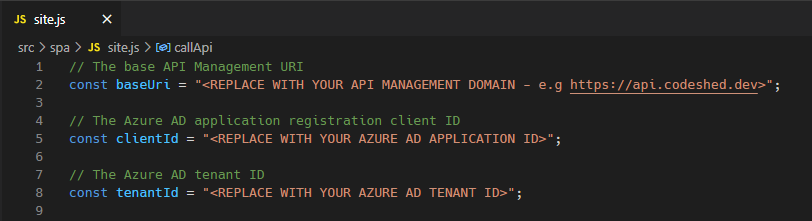
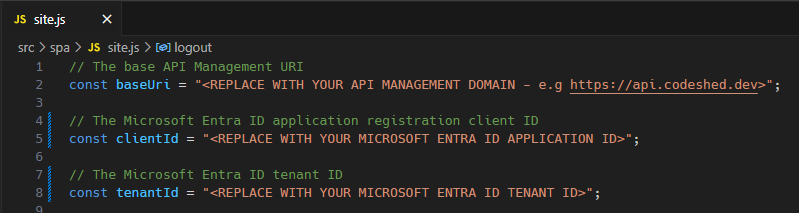
Updated references to Microsoft Entra ID (#5)

diff --git a/src/spa/site.js b/src/spa/site.js
@@ -1,11 +1,11 @@
 // The base API Management URI
 const baseUri = "<REPLACE WITH YOUR API MANAGEMENT DOMAIN - e.g https://api.codeshed.dev>";
 
-// The Azure AD application registration client ID
-const clientId = "<REPLACE WITH YOUR AZURE AD APPLICATION ID>";
+// The Microsoft Entra ID application registration client ID
+const clientId = "<REPLACE WITH YOUR MICROSOFT ENTRA ID APPLICATION ID>";
 
-// The Azure AD tenant ID
-const tenantId = "<REPLACE WITH YOUR AZURE AD TENANT ID>";
+// The Microsoft Entra ID tenant ID
+const tenantId = "<REPLACE WITH YOUR MICROSOFT ENTRA ID TENANT ID>";
 
 // The scope for the access token request to call the Microsoft Graph API
 // If a refresh token is also required for the application, add "offline_access" to the scope
@@ -18,9 +18,9 @@ const login = () => {
         `https://login.microsoftonline.com/${tenantId}/oauth2/v2.0/authorize?response_type=code&redirect_uri=${baseUri}/auth/callback&client_id=${clientId}&scope=${scope}`;
 };
 
-// Logs the user out of the application by redirecting to the logout endpoint of Azure AD which will in turn call the logout endpoint of the application to remove the cookie
-// This allows the user to be logged out of Azure AD and the single-page application itself by deleting the cookie
-// If you do not want to log the user out of Azure AD, you can remove the redirect to the logout endpoint of Azure AD and just call the logout endpoint of the application
+// Logs the user out of the application by redirecting to the logout endpoint of Microsoft Entra ID which will in turn call the logout endpoint of the application to remove the cookie
+// This allows the user to be logged out of Microsoft Entra ID and the single-page application itself by deleting the cookie
+// If you do not want to log the user out of Microsoft Entra ID, you can remove the redirect to the logout endpoint of Microsoft Entra ID and just call the logout endpoint of the application
 const logout = () => {
     window.location.href = `https://login.microsoftonline.com/${tenantId}/oauth2/v2.0/logout?post_logout_redirect_uri=${baseUri}/auth/logout`;
 };

diff --git a/docs/deployment-guide.md b/docs/deployment-guide.md
@@ -10,11 +10,11 @@ To learn more about using custom domains on Azure resources, see [Manage custom 
 
 ## Prerequisites
 
-This example requires the following to be created in your **Azure AD tenant**.
+This example requires the following to be created in your **Microsoft Entra ID tenant**.
 
-- **Azure Active Directory Application Registration**
+- **Microsoft Entra ID Application Registration**
   - A client application registration is used to generate the client id and client secret required for the API Management gateway to acquire an access token.
-  - **Quickstart:** [Register an application with the Microsoft identity platform](https://learn.microsoft.com/azure/active-directory/develop/quickstart-register-app).
+  - **Quickstart:** [Register an application with the Microsoft identity platform](https://learn.microsoft.com/entra/identity-platform/quickstart-register-app).
 
 This example requires the following resources to be created in your **Azure subscription**, within a single resource group.
 
@@ -37,30 +37,30 @@ Once registered, the application registration requires the following properties 
 - API permissions
 - Front-channel logout URL
 
-When creating the application registration, the sign in audience chosen will determine the Azure Active Directory endpoints required for authorization and token acquisition. This example project uses a single tenant application registration, which only allows users from a single directory to access it. If a multi-tenant application is used, then the tenant id should be replaced with the appropriate alternative common setting.
+When creating the application registration, the sign in audience chosen will determine the Microsoft Entra ID endpoints required for authorization and token acquisition. This example project uses a single tenant application registration, which only allows users from a single directory to access it. If a multi-tenant application is used, then the tenant id should be replaced with the appropriate alternative common setting.
 
 Even though this example is a single-page application, due to the backend for frontend pattern, the OAuth2 application is considered a confidential client as token acquisition is handled by the API Management gateway, which can keep the client secret value secure either as a secret named value, or by linking it to a secret in a Key Vault.
 
 The redirect URI should be configured as a **Web** redirect and pointed to the domain of the API Management gateway and the API callback operation, for example: `https://<APIM DOMAIN>/auth/callback`.
 
-To enable the single-page application to log out of the API Management gateway, the front channel logout URL should be configured to the domain of the Azure API Management gateway logout operation, for example: `https://<APIM DOMAIN>/auth/logout`. This will ensure that the cookie is removed from the browser when the user logs out of Azure Active Directory.
+To enable the single-page application to log out of the API Management gateway, the front channel logout URL should be configured to the domain of the Azure API Management gateway logout operation, for example: `https://<APIM DOMAIN>/auth/logout`. This will ensure that the cookie is removed from the browser when the user logs out of Microsoft Entra ID.
 
-![A screenshot of the Azure AD app registration redirects.](images/app-reg-redirect.png)
+![A screenshot of the Microsoft Entra ID app registration redirects.](images/app-reg-redirect.png)
 
 As this example uses Microsoft Graph API as the proxied API to call, we need to add the permission `User.Read` to the application. Depending upon how you create the application registration this will probably be added for you by default.
 
-![A screenshot of the Azure AD app registration API permissions.](images/app-reg-permissions.png)
+![A screenshot of the Microsoft Entra ID app registration API permissions.](images/app-reg-permissions.png)
 
 Finally, a client secret is required to be generated for the API Management gateway to enable the authorization code to be exchanged for an access token. This secret is not required in the single-page application, but will be stored as a named value in the API Management gateway.
 
-![A screenshot of the Azure AD app registration client secrets configuration.](images/app-reg-secret.png)
+![A screenshot of the Microsoft Entra ID app registration client secrets configuration.](images/app-reg-secret.png)
 
 ## API Management configuration
 
 Once the API Management gateway has been created several parameters need to be registered under [Named Values](https://learn.microsoft.com/azure/api-management/api-management-howto-properties) to be referenced by the policies. Theses values are:
 
 - `tenant-id`
-  - The Azure Active Directory tenant ID.
+  - The Microsoft Entra ID tenant ID.
 - `client-id`
   - The application registration client ID.
 - `client-secret`
@@ -94,7 +94,7 @@ After the API definition has been imported, you should disable the requirement f
 
 ![A screenshot of the API configuration for the auth endpoint with Subscription required unchecked.](images/import-auth-subscription.png)
 
-Once the API definitions have been imported, the API Management policies can be edited. Each of the API definitions has it's own policy. The `callback` policy acts as the redirect for the Azure Active Directory application, and receives the authorization code following user authentication. This policy then exchanges the code for an access token before encrypting it into a cookie and returning it to the single-page application. The `logout` policy simply removes the cookie from the browser.
+Once the API definitions have been imported, the API Management policies can be edited. Each of the API definitions has it's own policy. The `callback` policy acts as the redirect for the Microsoft Entra ID application, and receives the authorization code following user authentication. This policy then exchanges the code for an access token before encrypting it into a cookie and returning it to the single-page application. The `logout` policy simply removes the cookie from the browser.
 
 To edit a policy, first select the API method and then click on the **Policies** button in the portal.
 
@@ -133,7 +133,7 @@ The `site.js` file contains three values that need to be updated to match your c
 - `clientId`
   - The application registration client id.
 - `tenantId`
-  - The Azure Active Directory tenant id.
+  - The Microsoft Entra ID tenant id.
 
 ![A screenshot of the site.js file's configuration lines.](images/site-js-settings.png)
 
@@ -143,7 +143,7 @@ Once the static web app has been deployed, the single-page application can be ac
 
 ![A screenshot of the running application, sitting on the main view.](images/spa-signin.png)
 
-Clicking the **Sign In** button will redirect you to the Azure Active Directory login page. Once you have authenticated, you will be redirected back to the single-page application and a cookie will be set containing the access token.
+Clicking the **Sign In** button will redirect you to the Microsoft Entra ID login page. Once you have authenticated, you will be redirected back to the single-page application and a cookie will be set containing the access token.
 
 ![A screenshot of the browser dev tools showing the HttpOnly, Secure cookie named "token."](images/spa-cookie-token.png)
 
@@ -151,8 +151,8 @@ Clicking the **Call API** button will make a request to the Microsoft Graph API 
 
 ![A screenshot of the running application, showing the output of a Graph API call.](images/spa-api-call.png)
 
-Clicking the **Sign Out** button will sign the user out from Azure Active Directory and remove the cookie from the browser.
+Clicking the **Sign Out** button will sign the user out from Microsoft Entra ID and remove the cookie from the browser.
 
 ## Cleaning up
 
-To remove the resources created in this tutorial, delete the resource group created in the [Prerequisites](#prerequisites) section, and delete the application registration created the Azure Active Directory.
+To remove the resources created in this tutorial, delete the resource group created in the [Prerequisites](#prerequisites) section, and delete the application registration created the Microsoft Entra ID.

diff --git a/README.md b/README.md
@@ -4,14 +4,14 @@ This project is an example of how you can use Azure API Management to implement 
 
 This architecture uses [API Management](https://azure.microsoft.com/products/api-management) to:
 
-- Implement a [Backends for Frontends](/azure/architecture/patterns/backends-for-frontends) pattern that gets an OAuth2 access token from Azure Active Directory (Azure AD).
+- Implement a [Backends for Frontends](/azure/architecture/patterns/backends-for-frontends) pattern that gets an OAuth2 access token from Microsoft Entra ID.
 - Use Advanced Encryption Standard [AES](https://en.wikipedia.org/wiki/Advanced_Encryption_Standard) to encrypt and decrypt the access token.
 - Store the token in an `HttpOnly` cookie.
 - Proxy all API calls that require authorization.
 
 Because the backend handles token acquisition, no other code or library, like [MSAL.js](https://github.com/AzureAD/microsoft-authentication-library-for-js), is required in the single-page application. When you use this design, no tokens are stored in the browser session or local storage. Encrypting and storing the access token in an `HttpOnly` cookie helps to protect it from [XSS](https://owasp.org/www-community/attacks/xss/) attacks. Scoping it to the API domain and setting `SameSite` to `Strict` ensures that the cookie is automatically sent with all proxied API first-party requests.
 
-This example uses [Microsoft Graph API](https://learn.microsoft.com/graph/api/overview?view=graph-rest-1.0) as an example backend API, but the same principles apply to any backend API you want to call. To obtain an access token with the required scopes, the correct API permissions need to be added to the application registration in Azure Active Directory.
+This example uses [Microsoft Graph API](https://learn.microsoft.com/graph/api/overview?view=graph-rest-1.0) as an example backend API, but the same principles apply to any backend API you want to call. To obtain an access token with the required scopes, the correct API permissions need to be added to the application registration in Microsoft Entra ID.
 
 ## Deploy this example
 
@@ -24,10 +24,10 @@ For information on how to deploy and configure the solution, please consult the 
 The pattern works as follows:
 
 1. A user selects **Sign in** in the single-page application.
-2. The single-page application invokes Authorization Code flow via a redirect to the Azure AD authorization endpoint.
+2. The single-page application invokes Authorization Code flow via a redirect to the Microsoft Entra ID authorization endpoint.
 3. Users authenticate themselves.
 4. An Authorization Code flow response with an authorization code is redirected to the API Management callback endpoint.
-5. The API Management policy exchanges the authorization code for an access token by calling the Azure AD token endpoint.
+5. The API Management policy exchanges the authorization code for an access token by calling the Microsoft Entra ID token endpoint.
 6. The Azure API Management policy redirects to the application and places the encrypted access token in an `HttpOnly` cookie.
 7. The user invokes an external API call from the application via an API Management proxied endpoint.
 8. The API Management policy receives the API request, decrypts the cookie, and makes a downstream API call, adding the access token as an `Authorization` header.
